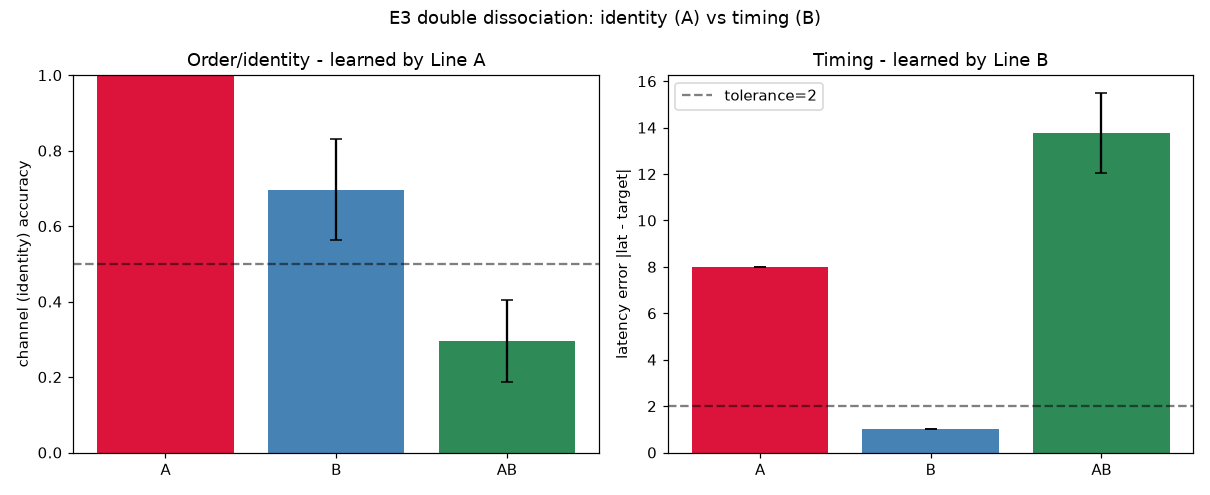
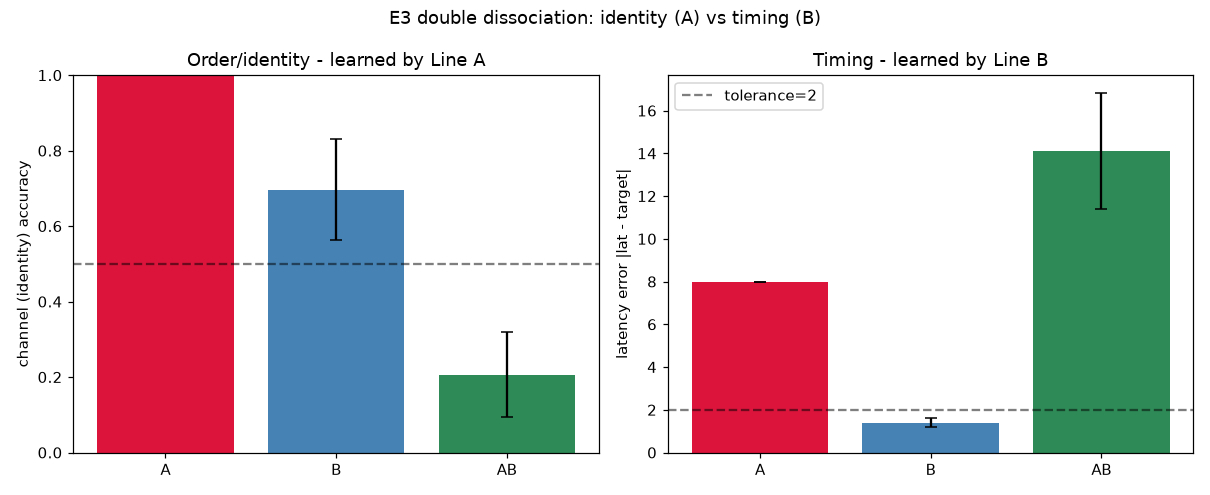
fix: seed the Line-B RNG in perturb_tau; re-run E2/E3; add missing deps
Reproducibility fix flagged by the hallucination review. GHLearner.perturb_tau
drew Line-B timescale-exploration noise from the GLOBAL unseeded RNG
(np.random.standard_normal), so the Line-B / A+B "seeds" of E2/E3 were not
controlled and their committed per-seed numbers were not regenerable. Threaded
self.rng (the seeded generator) through both branches of perturb_tau.

Re-ran the affected experiments with the fix (now deterministic under their seeds):
- E2: conclusion robust -- Line B/AB retention still [1,1,1,1,1], Line A [1,0,0,0,0];
  learned shared tau 12.6 -> 12.2. Doc updated.
- E3 dissociation: A channel 1.00 / latency 8.0 (wrong timing); B timing 1.4 /
  innate channel 0.70; A+B interferes (channel 0.21, latency 14.1). Table + prose
  updated.

Also add networkx (C1) and scikit-learn (C0, C4) to the README install line
(previously missing).

The E3 composition-study section (the overstated 0.20->0.77 headline) is being
re-run and will be corrected in a follow-up commit on this branch.

Claude-Session: https://claude.ai/code/session_016sFHZTyXrNc4ByNEpgGsZp

diff --git a/ghca_learn.py b/ghca_learn.py
@@ -135,12 +135,12 @@ class GHLearner(Network):
         per-node perturbation (see e2_results.md)."""
         explore = self.tau_sigma > 0 and "B" in self.line
         if self.tau_shared:
-            self._eps_s = self.tau_sigma * np.random.standard_normal() if explore else 0.0
+            self._eps_s = self.tau_sigma * self.rng.standard_normal() if explore else 0.0
             self.tau = self.tau_base.copy()
             self.tau[self.tau_mask] = np.clip(self.tau_scalar + self._eps_s,
                                               self.tau_min, self.tau_max)
         else:
-            self._eps = self.tau_sigma * np.random.standard_normal(self.N) * self.tau_mask \
+            self._eps = self.tau_sigma * self.rng.standard_normal(self.N) * self.tau_mask \
                 if explore else np.zeros(self.N)
             self.tau = np.clip(self.tau_base + self._eps, self.tau_min, self.tau_max)
 

diff --git a/docs/e2_results.md b/docs/e2_results.md
@@ -47,8 +47,8 @@ timescale** learned by reward-gated perturbation. 5 seeds.
 | Line | learned τ (L=24) | D=0 | D=20 | D=50 | D=100 | D=200 |
 |------|------------------|-----|------|------|-------|-------|
 | **A** (weights) | 26.0 (unchanged) | 1.00 | 0.00 | 0.00 | 0.00 | 0.00 |
-| **B** (timescale) | 12.6 | 1.00 | 1.00 | 1.00 | 1.00 | 1.00 |
-| **A+B** | 12.9 | 1.00 | 1.00 | 1.00 | 1.00 | 1.00 |
+| **B** (timescale) | 12.2 | 1.00 | 1.00 | 1.00 | 1.00 | 1.00 |
+| **A+B** | 12.2 | 1.00 | 1.00 | 1.00 | 1.00 | 1.00 |
 
 ![E2 learning](figures/e2_learning.png)
 
@@ -57,7 +57,7 @@ timescale** learned by reward-gated perturbation. 5 seeds.
   the refractory sustain condition, so accuracy collapses to chance for any
   `D > 0`. This is the predicted A-only decay with delay, in its sharpest form.
 - **Line B learns to hold memory across arbitrary delay.** Reward-gated
-  timescale perturbation drives the ring's shared `τ` from 26 down to ~13 (well
+  timescale perturbation drives the ring's shared `τ` from 26 down to ~12 (well
   below `L`), converting the dying loop into a self-sustaining one; retention is
   perfect out to `D = 200`.
 - **The dissociation inverts E1.** In E1 (identity mapping, no delay) Line A was

diff --git a/docs/e3_results.md b/docs/e3_results.md
@@ -37,8 +37,8 @@ sets *when* the response is emitted.
 | Line | channel acc | latency err | learned gate τ |
 |------|-------------|-------------|----------------|
 | **A** (weights) | **1.00** | **8.0** (wrong) | 10.0 (unchanged) |
-| **B** (timescale) | 0.70 (not learned) | **1.0** (within tol) | 19.7 |
-| **A+B** | 0.30 | 13.8 | 13.4 |
+| **B** (timescale) | 0.70 (not learned) | **1.4** (within tol) | 18.9 |
+| **A+B** | 0.21 | 14.1 | 18.7 |
 
 ![E3 dissociation](figures/e3_dissociation.png)
 
@@ -55,7 +55,7 @@ sets *when* the response is emitted.
   They are genuinely different mechanisms.
 
 - **A+B does NOT compose — it interferes.** Jointly, both objectives get *worse*
-  than either line alone (channel 0.30, latency error 13.8). This is a real
+  than either line alone (channel 0.21, latency error 14.1). This is a real
   negative result and answers the design doc's open question ("do A and B
   compose or trade off?"): under a **single shared TD-error broadcast**, they
   interfere. Line B's timescale changes shift *which gate beat* the response

diff --git a/README.md b/README.md
@@ -139,7 +139,7 @@ E-series and C-series tie together into one argument.
 ## Reproduce
 
 ```
-python3 -m pip install numpy matplotlib scipy
+python3 -m pip install numpy matplotlib scipy networkx scikit-learn
 python3 experiments/e0_characterization.py    # writes docs/figures/e0_*.png, result/e0/
 python3 experiments/e5_executive.py           # writes docs/figures/e5_*.png, result/e5/
 python3 experiments/e6_horde.py               # writes docs/figures/e6_horde.png, result/e6/